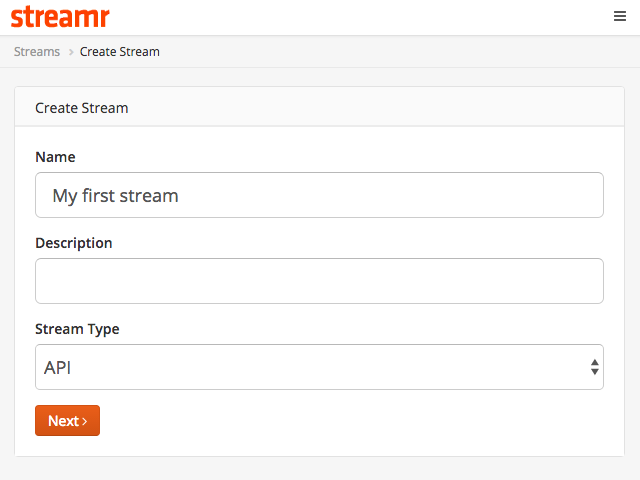
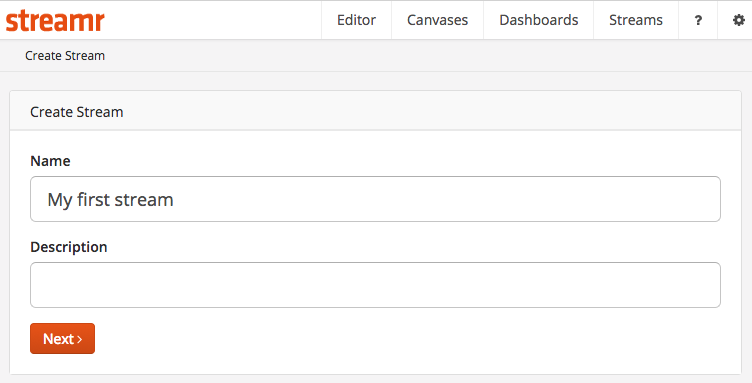
Updated user guide on streams to new-data-pipeline era
also pictures

diff --git a/grails-app/views/help/userGuide/markdown/streams.md b/grails-app/views/help/userGuide/markdown/streams.md
@@ -64,9 +64,13 @@ A click takes you to a dialog where you’ll fill in the stream name and an opti
 
 A new stream is created when you click the **Next** button.  You’ll be shown a stream view that includes the stream details (the name and description), API credentials, configured fields (there won’t be any yet), and a summary of stream history (there will be none yet). 
 
-<r:img plugin="unifina-core" dir="images/user-guide" file="my-first-stream-view.png" class="img-responsive center-block" />
+<r:img plugin="unifina-core" id="stream-view-image" dir="images/user-guide" file="my-first-stream-view.png" class="img-responsive center-block" />
 
 If you want to delete a stream, first click on its name, and then click on the **Delete stream** button. You’ll be asked to confirm that you really want to go ahead. You can also delete a stream using the <g:link controller="help" action="api">stream API</g:link>.
+
+In order to read the stream from external applications using the HTTP API, you need to create <strong>Anonymous keys</strong> not bound to specific Streamr user. This way you can grant (and revoke) external applications and users the access to your stream. Choose a descriptive <strong>Key name</strong> (e.g. name of the external application, client, or customer you want to grant the access), select <strong>can read</strong> from the dropdown, and hit <strong>+</strong>. Copy the key to clipboard by clicking the copy icon. Revoke the access by clicking the trash bin icon.
+
+In order to push data into the stream from external sources using the HTTP API, or let external application push data into your data stream, you need to create an anonymous key with <i>write permissions</i>. Choose a descriptive <strong>Key name</strong> (e.g. name of the external data producer), select <strong>can write</strong> from the dropdown, and hit <strong>+</strong>. For details on how to implement the data sender, see <a href="#pushing-events-section">Pushing events to a stream</a>.
 
 ## Editing stream details
 
@@ -133,30 +137,28 @@ Data types can be freely mixed in one event. And you can freely add new fields t
 
 There is no theoretical limitation as to the format or type of data in Streamr. Anything which can be expressed in digital form is fair game. It is perfectly possible to create streams which contain digital images, streaming video, or other domain-specific data. If your use case takes you beyond the built-in data types, come and talk to us about what you have in mind.
 
+<a id="pushing-events-section"></a>
 ## Pushing events to a stream
 
 Streamr has a simple API which allows you to push events in JSON format to a stream.  The events are immediately processed by any canvas which subscribes to the stream.  The events are also available for historical playback as soon as they are received by Streamr.
 
-You can push events to a stream from any programming language.  This is the HTTP endpoint for the JSON API:
+You can push events to a stream from any programming language.  This is the HTTPS endpoint for the JSON API you would use:
 
-    http://data.streamr.com/json
+    POST https://www.streamr.com/api/v1/streams/STREAM_ID/data
 
-If you want to send the data via an encrypted connection, use HTTPS instead of HTTP.  
-
-The authentication information is in the request headers, and the actual data payload is in the request body.  These are the possible headers:
-
-Header    | Required | Description
-:-------- | :------- | :----------
-Stream    | Yes      | The stream ID
-Auth      | Yes      | The stream authorisation key
-Timestamp | No       | Java/Javascript time
+API credentials must be provided in the <strong>Authorization</strong> request header. Authorization header should contain the word <strong>token</strong> and a key with write permissions to the stream. Create this key on the <a href="#stream-view-image">stream's configuration page</a>.
 
 The event timestamp is optional.  If omitted, the current timestamp on the receiving server is used.  If you want to include an explicit timestamp, it should be given in milliseconds since January 1, 1970 UTC.  In any case, any explicit timestamp only affects the playback.  Each event is processed as soon as it is received.
 
+The actual data payload is sent in the POST request body, encoded in JSON.
+
+Here's an example HTTP request for pushing a data event into a stream:
+
+    POST https://www.streamr.com/api/v1/streams/z2IwFcsJSzOxx9nt0nhc7g/data
+
 Here’s an example of request headers:
 
-    Stream: z2IwFcsJSzOxx9nt0nhc7g
-    Auth: cZhdnH7OQpK9ip07rttKSQ
+    Authorization: mejriQ8FSimIbUlOvSpcIwDL0htzeQR-e1N0plTfcZzg
     Timestamp: 1441227869000
 
 And here’s an example of a request body.
@@ -175,11 +177,9 @@ A fully-formed request example using `jquery` looks like the following:
 
     $.ajax({
         type: "POST",
-        url: "http://data.streamr.com/json",
+        url: "https://www.streamr.com/api/v1/streams/z2IwFcsJSzOxx9nt0nhc7g/data",
         headers: {
-            Stream: "z2IwFcsJSzOxx9nt0nhc7g",
-            Auth: "cZhdnH7OQpK9ip07rttKSQ",
-            Timestamp: Date.now()
+            Authorization: "token mejriQ8FSimIbUlOvSpcIwDL0htzeQR-e1N0plTfcZzg"
         },
         data: JSON.stringify(msg)
     });
@@ -187,8 +187,8 @@ A fully-formed request example using `jquery` looks like the following:
 
 The same example using `curl` looks like this.
 
-    curl -i -X POST -H "Stream: z2IwFcsJSzOxx9nt0nhc7g" -H "Auth: cZhdnH7OQpK9ip07rttKSQ" \
-    -d "{\"foo\":\"hello\",\"bar\":24.5}" http://data.streamr.com/json
+    curl -i -X POST -H "Authorization: token mejriQ8FSimIbUlOvSpcIwDL0htzeQR-e1N0plTfcZzg" \
+    -d "{\"foo\":\"hello\",\"bar\":24.5}" https://www.streamr.com/api/v1/streams/z2IwFcsJSzOxx9nt0nhc7g/data
 
 If the call is successful, the data API returns the code 204 (i.e. “no content”).  These are the possible return codes:
 
